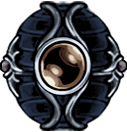
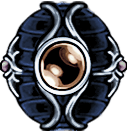
Sharp Light

diff --git a/Lightbringer/Language.cs b/Lightbringer/Language.cs
@@ -15,6 +15,8 @@ namespace Lightbringer {
                 "What is this? Why does it exist? Is it safe to use?\n\nSlashing upwards speeds up the flow of time. Taking damage will break the effect.",
             ["CHARM_DESC_15"] =
                 "A small trinket made of valuable metal and precious stone.\n\nLanding five successful nail attacks on an enemy will restore health.",
+            ["CHARM_DESC_16"] =
+                "Contains a radiant spell that transforms swift glitters into deadly weapons.\n\nWhen using Light Dash, the bearer's body will sharpen and damage enemies.",
             ["CHARM_DESC_17"] =
                 "Radiates an intense flash of light when exposed to SOUL.\n\nWhen focusing SOUL, emit a blast of light that damages enemies. Increases SOUL regeneration rate slightly.",
             ["CHARM_DESC_18"] = "A metal badge that is cold to the touch. It brings back warm memories.\n\nFire lances in both directions when attacking.",
@@ -98,6 +100,7 @@ namespace Lightbringer {
             ["CHARM_NAME_13"] = "Burning Pride",
             ["CHARM_NAME_14"] = "Time Fracture",
             ["CHARM_NAME_15"] = "Bloodlust",
+            ["CHARM_NAME_16"] = "Sharp Light",
             ["CHARM_NAME_17"] = "Light Blast",
             ["CHARM_NAME_18"] = "Silent Divide",
             ["CHARM_NAME_19"] = "Eye of the Storm",

diff --git a/Lightbringer/Lightbringer.cs b/Lightbringer/Lightbringer.cs
@@ -325,7 +325,7 @@ namespace Lightbringer
                    Sprites.Count < 22)
                 yield return null;
 
-            foreach (int i in new int[] { 2, 3, 4, 6, 8, 11, 13, 14, 15, 17, 18, 19, 20, 21, 25, 26, 35 }) CharmIconList.Instance.spriteList[i] = Sprites["Charms." + i];
+            foreach (int i in new int[] { 2, 3, 4, 6, 8, 11, 13, 14, 15, 16, 17, 18, 19, 20, 21, 25, 26, 35 }) CharmIconList.Instance.spriteList[i] = Sprites["Charms." + i];
 
             HeroController.instance.geoCounter.geoSprite.GetComponent<tk2dSprite>()
                           .GetCurrentSpriteDef()
